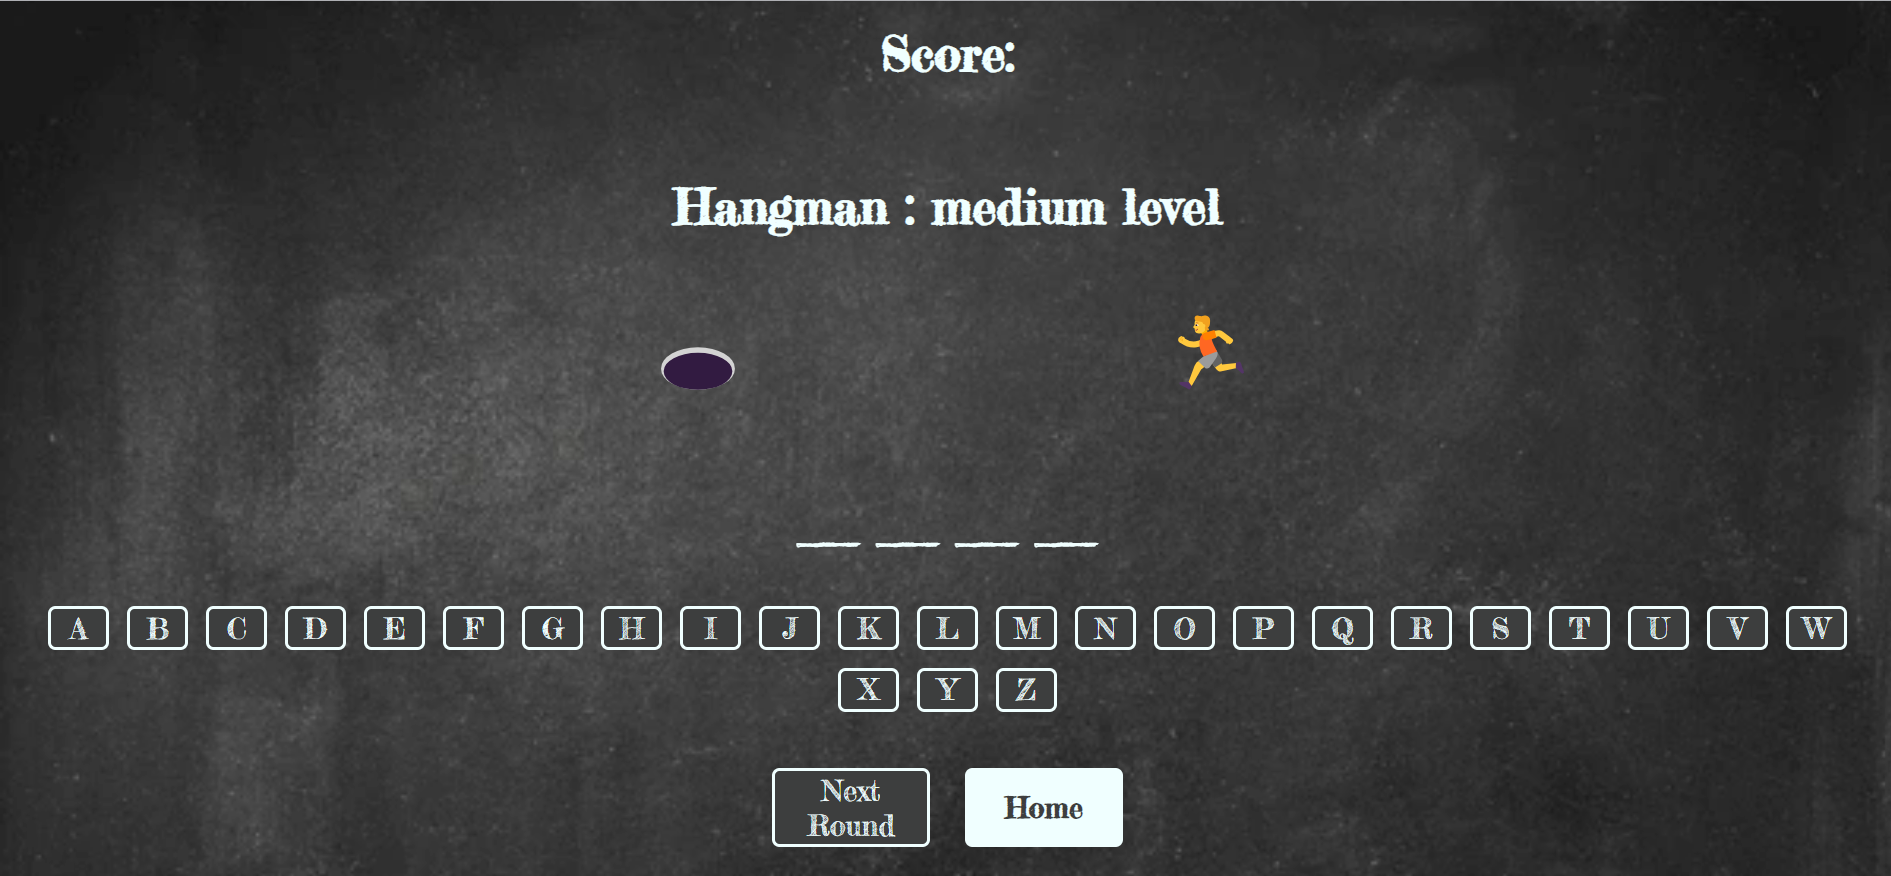
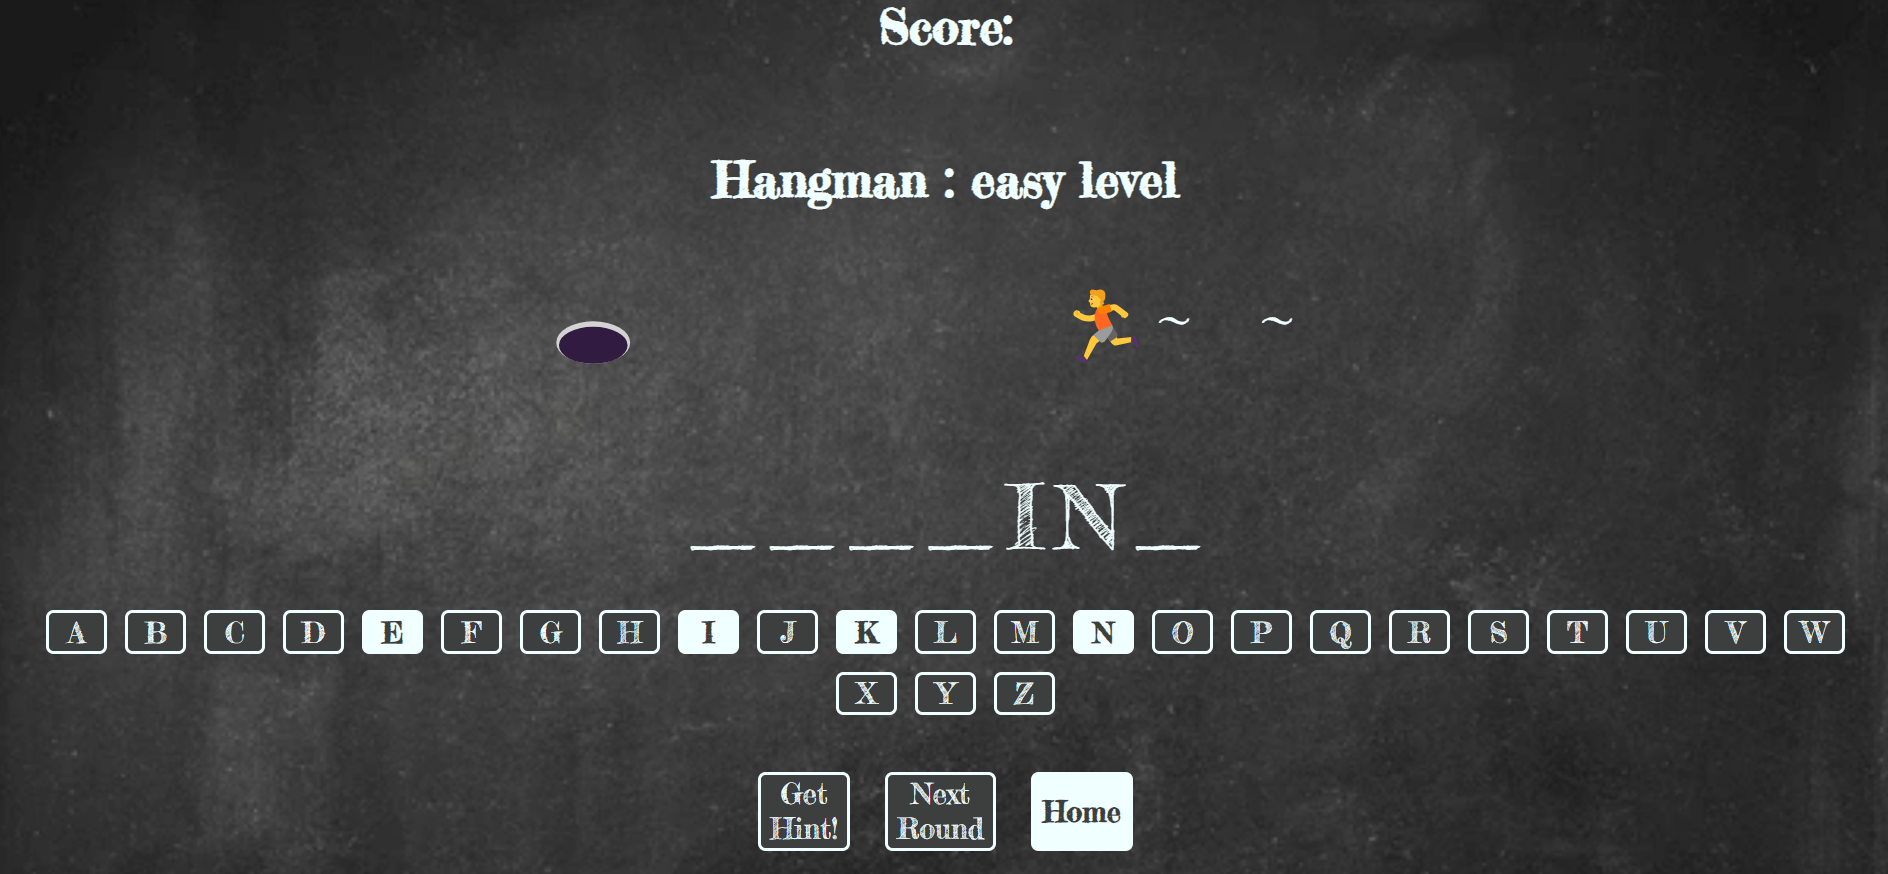
update README

diff --git a/README.md b/README.md
@@ -35,9 +35,11 @@
 
 ##### Try guessing the word, each wrong guess get you closer to the trap.
 
+##### When two guesses left you can show a hint!
+
 ##### A Trello board was used to keep track of development progress and can be viewed [Hangman](https://trello.com/b/WMz7BGI0/hangman).
 
-##### The project was deployed and can be viewed [here](URL).
+##### The project was deployed and can be viewed here [Hangman](https://hangmanga.surge.sh/).
 
 ---
 
@@ -51,7 +53,7 @@
 
 ![Game Page](/game%20page.png)
 
-##### Scorboard Page
+##### Scoreboard Page
 
 ![Scoreboard Page](/scoreboard.png)
 
@@ -62,13 +64,15 @@
 - [x] style home page
 - [x] style game page
 - [x] add scoreboard
-- [] deploy the game
+- [x] deploy the game
 
 ---
 
 ### **_Credits_**
 
 ##### [Random word API](https://random-word-api.vercel.app/)
+
+##### [Word definition API](https://dictionaryapi.dev/)
 
 ##### [Background Image](https://www.shutterstock.com)
 
